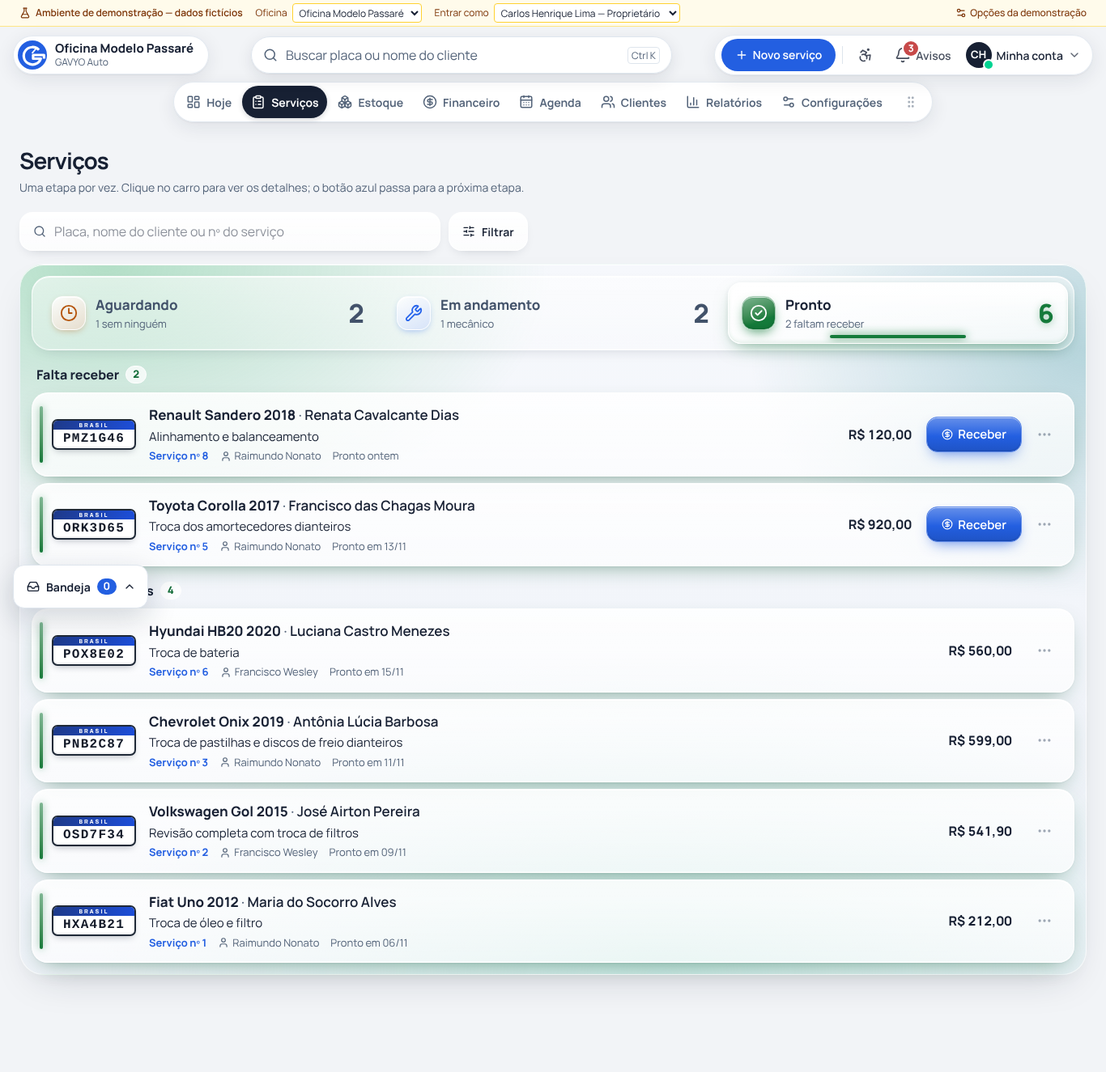
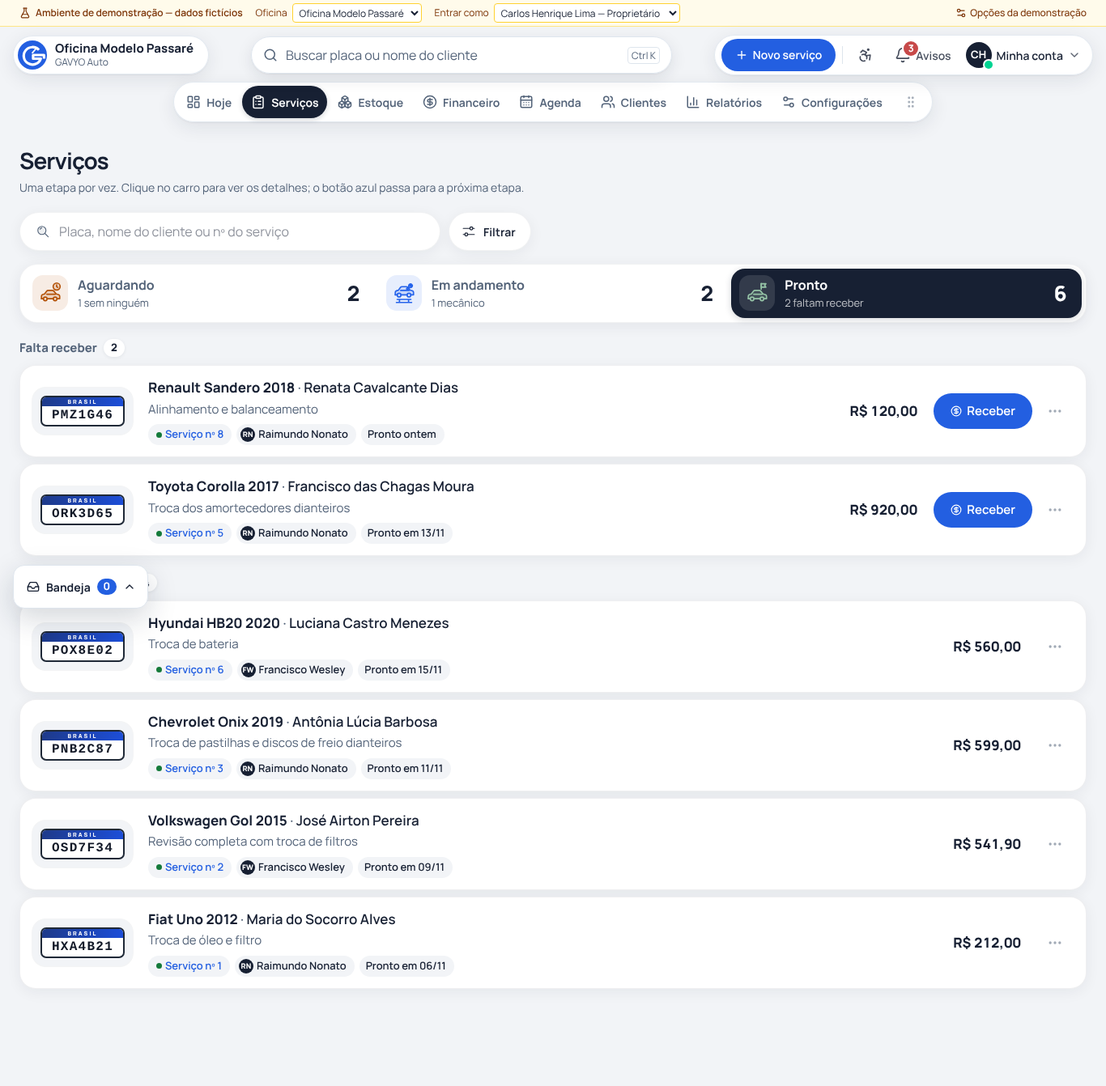
style: Serviços no estilo da navegação e ícones próprios da oficina
Troca o vidro (achado exagerado) pela linguagem da ilha de navegação: abas
com pílula escura, cartões brancos com placa como foto, etiquetas cinza e
botão em pílula. Ícones desenhados: carro com relógio, no elevador e com
bandeirinha, lupa e régua de ajuste.

Claude-Session: https://claude.ai/code/session_015xcccMtBZyPoUvGxoauYP3

diff --git a/src/app/globals.css b/src/app/globals.css
@@ -1810,45 +1810,60 @@ html[data-motion="reduce"] .stage-tab.just-got, html[data-motion="reduce"] .svc-
 .svc-cancelled { justify-self: start; font-size: .9375rem; font-weight: 650; color: var(--primary); }
 .svc-cancelled:hover { text-decoration: underline; }
 
-/* ===== Serviços em vidro (pedido do usuário: "estilo glass", decisão 59) =====
-   Vidro sem desfoque: translucidez + reflexo no topo + borda de luz + sombra colorida
-   sobre um fundo em degradê que muda de cor com a etapa. Sem backdrop-filter
-   (decisão 52: pesava no Mac); sobre degradê liso o desfoque não mudaria nada.
-   A cor da etapa transiciona suave via @property. */
-@property --tint { syntax: "<color>"; inherits: true; initial-value: #c2410c; }
-.svc-stage { --tint: #c2410c; position: relative; isolation: isolate; display: grid; gap: 18px; padding: 14px; border-radius: 30px; border: 1px solid rgb(255 255 255 / 70%); background:
-    radial-gradient(60% 55% at 8% 0%, color-mix(in srgb, var(--tint) 30%, transparent), transparent 70%),
-    radial-gradient(45% 50% at 100% 12%, color-mix(in srgb, var(--tint) 18%, rgb(165 180 252 / 35%)), transparent 70%),
-    radial-gradient(70% 60% at 60% 100%, color-mix(in srgb, var(--tint) 14%, rgb(224 242 254 / 60%)), transparent 75%),
-    linear-gradient(180deg, #f6f8fc, #eef2f8);
-  box-shadow: inset 0 1px 0 rgb(255 255 255 / 90%), 0 20px 50px -24px rgb(23 32 51 / 25%); transition: --tint 500ms ease; }
-.svc-stage[data-stage="in_progress"] { --tint: #2563eb; }
-.svc-stage[data-stage="done"] { --tint: #16a34a; }
+/* ===== Serviços no estilo da navegação (decisão 59, revisão do usuário: "muito exagerado,
+   quero algo parecido com a nav") =====
+   Mesma linguagem da ilha de navegação: superfície branca, borda fina, sombra leve,
+   item ativo em pílula escura. Cartões inspirados na lista de viagens do Airbnb e nos
+   pedidos da Apple Store: "foto" à esquerda (a placa), título forte, uma linha de apoio,
+   etiquetas cinza e UM botão em pílula. Cor da etapa só como pontinho. */
+.svc-stage { display: grid; gap: 16px; }
+.svc-stage .stage-tabs { gap: 4px; padding: 5px; margin: 0; border: 1px solid rgb(23 32 51 / 6%); border-radius: 22px; background: var(--surface); box-shadow: 0 4px 18px rgb(23 32 51 / 7%); }
+.svc-stage .stage-tab { min-height: 60px; padding: 8px 18px 8px 10px; border: 0; border-radius: 17px; color: var(--muted); box-shadow: none; transition: background-color 200ms, color 200ms; }
+.svc-stage .stage-tab:hover { background: var(--bg); color: var(--text); }
+.svc-stage .stage-tab[aria-selected="true"] { background: var(--secondary); color: var(--secondary-fg); border: 0; box-shadow: 0 2px 8px rgb(23 32 51 / 18%); }
+.svc-stage .stage-tab[aria-selected="true"]::after { display: none; }
+.svc-stage .stage-tab-icon { width: 44px; height: 44px; border-radius: 13px; background: color-mix(in srgb, var(--st) 11%, var(--surface)); color: var(--st); }
+.svc-stage .stage-tab-icon svg { width: 30px; height: 30px; }
+.svc-stage .stage-tab[aria-selected="true"] .stage-tab-icon { background: rgb(255 255 255 / 12%); color: color-mix(in srgb, var(--st) 45%, #fff); }
+.svc-stage .stage-tab-label { font-size: 1rem; font-weight: 700; }
+.svc-stage .stage-tab[aria-selected="true"] .stage-tab-label { color: var(--secondary-fg); }
+.svc-stage .stage-tab[aria-selected="true"] .stage-tab-sub { color: rgb(255 255 255 / 72%); }
+.svc-stage .stage-tab-count { font-size: 1.625rem; font-weight: 800; color: var(--text); }
+.svc-stage .stage-tab[aria-selected="true"] .stage-tab-count { color: var(--secondary-fg); }
+.svc-stage .stage-tab[data-over] { background: color-mix(in srgb, var(--st) 12%, var(--surface)); box-shadow: inset 0 0 0 2px var(--st); }
 
-.svc-stage .stage-tabs { margin: 0; padding: 7px; border-radius: 22px; background: linear-gradient(180deg, rgb(255 255 255 / 55%), rgb(255 255 255 / 28%)); border: 1px solid rgb(255 255 255 / 75%); box-shadow: inset 0 1px 0 rgb(255 255 255 / 95%), inset 0 -1px 0 rgb(255 255 255 / 30%), 0 6px 18px -10px rgb(23 32 51 / 25%); }
-.svc-stage .stage-tab { border-radius: 16px; color: #42526a; }
-.svc-stage .stage-tab:hover { background: rgb(255 255 255 / 40%); }
-.svc-stage .stage-tab[aria-selected="true"] { overflow: hidden; border-color: rgb(255 255 255 / 90%); background: linear-gradient(180deg, rgb(255 255 255 / 92%), rgb(255 255 255 / 70%)); box-shadow: inset 0 1px 0 #fff, inset 0 -2px 6px -2px color-mix(in srgb, var(--st) 18%, transparent), 0 10px 24px -10px color-mix(in srgb, var(--st) 55%, transparent), 0 2px 6px rgb(23 32 51 / 8%); }
-.svc-stage .stage-tab[aria-selected="true"]::before { content: ""; position: absolute; inset: 0 0 55% 0; border-radius: 16px 16px 40% 40% / 16px 16px 14px 14px; background: linear-gradient(180deg, rgb(255 255 255 / 85%), rgb(255 255 255 / 0%)); pointer-events: none; }
-.svc-stage .stage-tab[aria-selected="true"]::after { left: 30%; right: 30%; bottom: 6px; height: 4px; border-radius: 4px; box-shadow: 0 0 12px var(--st); }
-.svc-stage .stage-tab-icon { position: relative; border-radius: 14px; background: linear-gradient(150deg, rgb(255 255 255 / 85%), color-mix(in srgb, var(--st) 16%, rgb(255 255 255 / 60%))); border: 1px solid rgb(255 255 255 / 80%); box-shadow: inset 0 1px 0 #fff, 0 3px 8px -3px color-mix(in srgb, var(--st) 45%, transparent); }
-.svc-stage .stage-tab[aria-selected="true"] .stage-tab-icon { background: linear-gradient(160deg, color-mix(in srgb, var(--st) 55%, #fff), var(--st) 70%); border-color: color-mix(in srgb, var(--st) 40%, #fff); box-shadow: inset 0 1px 0 rgb(255 255 255 / 70%), inset 0 -2px 4px rgb(0 0 0 / 12%), 0 6px 14px -4px color-mix(in srgb, var(--st) 70%, transparent); }
-.svc-stage .stage-tab-count, .svc-stage .stage-tab-text { position: relative; }
-.svc-stage .stage-tab[aria-selected="true"] .stage-tab-count { text-shadow: 0 2px 10px color-mix(in srgb, var(--st) 35%, transparent); }
-
-.svc-stage .order-card.svc-row { border: 1px solid rgb(255 255 255 / 80%); border-radius: 20px; padding-left: 24px; background: linear-gradient(180deg, rgb(255 255 255 / 86%), rgb(255 255 255 / 62%)); box-shadow: inset 0 1px 0 #fff, inset 0 -1px 0 rgb(255 255 255 / 35%), 0 10px 28px -14px color-mix(in srgb, var(--st) 45%, rgb(23 32 51 / 40%)), 0 1px 2px rgb(23 32 51 / 5%); transition: transform 160ms ease, box-shadow 160ms ease; }
-.svc-stage .order-card.svc-row::before { content: ""; position: absolute; left: 9px; top: 16px; bottom: 16px; width: 4px; border-radius: 4px; background: linear-gradient(180deg, color-mix(in srgb, var(--st) 55%, #fff), var(--st)); box-shadow: 0 0 10px color-mix(in srgb, var(--st) 55%, transparent); }
-.svc-stage .order-card.svc-row:hover, .svc-stage .order-card.svc-row:focus-within { transform: translateY(-1px); border-color: #fff; background: linear-gradient(180deg, rgb(255 255 255 / 95%), rgb(255 255 255 / 76%)); box-shadow: inset 0 1px 0 #fff, 0 16px 34px -14px color-mix(in srgb, var(--st) 55%, rgb(23 32 51 / 45%)), 0 2px 4px rgb(23 32 51 / 6%); }
-.svc-stage .order-card.svc-row.is-selected { box-shadow: inset 0 1px 0 #fff, 0 0 0 2px color-mix(in srgb, var(--primary) 55%, transparent), 0 16px 34px -14px color-mix(in srgb, var(--primary) 50%, transparent); }
-.svc-stage .mini-plate { box-shadow: 0 4px 10px -4px rgb(15 23 42 / 35%), inset 0 -2px 0 rgb(15 23 42 / 6%); }
-.svc-stage .svc-actions .ui-button.bg-primary { border-color: color-mix(in srgb, var(--primary) 70%, #fff); border-radius: 14px; background-image: linear-gradient(180deg, color-mix(in srgb, var(--primary) 70%, #fff) 0%, var(--primary) 55%, color-mix(in srgb, var(--primary) 88%, #000) 100%); box-shadow: inset 0 1px 0 rgb(255 255 255 / 55%), inset 0 -1px 2px rgb(0 0 0 / 15%), 0 8px 18px -8px color-mix(in srgb, var(--primary) 80%, transparent); }
-.svc-stage .svc-actions .ui-button.bg-primary:hover { filter: brightness(1.06); }
-.svc-stage .svc-group { padding-left: 6px; }
-.svc-stage .svc-group span { background: rgb(255 255 255 / 75%); border: 1px solid #fff; }
-.svc-stage .stage-empty { border: 1.5px dashed rgb(255 255 255 / 95%); background: rgb(255 255 255 / 35%); }
-
-.svc-search, .svc-filter > summary { border-color: rgb(255 255 255 / 85%); background: linear-gradient(180deg, rgb(255 255 255 / 95%), rgb(255 255 255 / 75%)); box-shadow: inset 0 1px 0 #fff, 0 6px 16px -10px rgb(23 32 51 / 30%); border-radius: 16px; }
-.svc-filter-body { border-color: #fff; background: linear-gradient(180deg, rgb(255 255 255 / 98%), rgb(250 251 254 / 96%)); border-radius: 20px; box-shadow: inset 0 1px 0 #fff, 0 24px 60px -18px rgb(23 32 51 / 35%); }
-@media (max-width: 640px) { .svc-stage { padding: 8px; border-radius: 22px; } .svc-stage .order-card.svc-row { border-radius: 16px; padding-left: 20px; } .svc-stage .order-card.svc-row::before { left: 7px; } }
-@media (prefers-reduced-motion: reduce) { .svc-stage, .svc-stage .order-card.svc-row { transition: none; } }
-html[data-motion="reduce"] .svc-stage, html[data-motion="reduce"] .svc-stage .order-card.svc-row { transition: none; }
+/* cartão */
+.svc-stage .order-card.svc-row { gap: 8px 20px; padding: 14px 16px 14px 14px; border: 1px solid rgb(23 32 51 / 7%); border-radius: 20px; background: var(--surface); box-shadow: 0 4px 18px rgb(23 32 51 / 6%); transition: box-shadow 180ms, transform 180ms; }
+.svc-stage .order-card.svc-row:hover, .svc-stage .order-card.svc-row:focus-within { border-color: rgb(23 32 51 / 10%); transform: translateY(-1px); box-shadow: 0 10px 28px rgb(23 32 51 / 10%); }
+.svc-stage .order-card.svc-row.is-selected { border-color: var(--primary); box-shadow: 0 0 0 3px color-mix(in srgb, var(--primary) 18%, transparent), 0 10px 28px rgb(23 32 51 / 10%); }
+.svc-stage .order-card.svc-row.is-picked { background: color-mix(in srgb, var(--primary) 4%, var(--surface)); }
+/* a "foto": placa sobre um fundo cinza claro, como a miniatura do Airbnb */
+.svc-stage .svc-open { gap: 18px; }
+.svc-stage .svc-open .mini-plate { flex-shrink: 0; box-shadow: 0 0 0 10px var(--bg), 0 0 0 11px rgb(23 32 51 / 5%); margin: 11px; }
+.svc-stage .svc-car { font-size: 1.0625rem; font-weight: 750; }
+.svc-stage .svc-what { color: var(--muted); }
+.svc-stage .svc-meta { gap: 6px; margin-top: 4px; }
+.svc-chip { display: inline-flex; align-items: center; gap: 6px; height: 26px; padding: 0 10px 0 8px; border-radius: 999px; background: var(--bg); color: var(--text); font-size: .8125rem; font-weight: 600; white-space: nowrap; }
+.svc-chip.is-number { padding-left: 10px; color: var(--primary); }
+.svc-chip.is-number::before { content: ""; width: 7px; height: 7px; border-radius: 999px; background: var(--st); }
+.svc-avatar { display: grid; place-items: center; width: 18px; height: 18px; margin-left: -3px; border-radius: 999px; background: var(--secondary); color: var(--secondary-fg); font-size: .5625rem; font-weight: 800; letter-spacing: .02em; }
+.svc-stage .svc-value { font-size: 1.0625rem; font-weight: 800; }
+/* botão em pílula, igual ao "Novo serviço" */
+.svc-stage .svc-actions .ui-button { height: 44px; padding-inline: 20px; border-radius: 999px; }
+.svc-stage .svc-actions .more-menu-trigger { border-radius: 999px; }
+.svc-stage .svc-group { margin-top: 4px; font-size: .9375rem; color: var(--muted); }
+.svc-stage .svc-group span { background: var(--surface); color: var(--text); box-shadow: 0 1px 4px rgb(23 32 51 / 8%); }
+.svc-stage .stage-empty { border: 0; background: var(--surface); box-shadow: 0 4px 18px rgb(23 32 51 / 6%); border-radius: 22px; }
+.svc-stage .stage-empty-art svg { width: 44px; height: 44px; }
+/* busca e filtro como a busca do topo */
+.svc-search, .svc-filter > summary { height: 48px; border: 1px solid rgb(23 32 51 / 6%); border-radius: 999px; background: var(--surface); box-shadow: 0 4px 18px rgb(23 32 51 / 6%); }
+.svc-search { padding: 0 18px; }
+.svc-filter > summary { padding: 0 18px 0 14px; }
+.svc-filter-body { border: 1px solid rgb(23 32 51 / 6%); border-radius: 22px; box-shadow: 0 18px 48px rgb(23 32 51 / 16%); }
+@media (max-width: 640px) {
+  .svc-stage .stage-tab { min-height: 72px; padding: 8px 4px; }
+  .svc-stage .stage-tab-icon { display: none; }
+  .svc-stage .order-card.svc-row { padding: 12px; border-radius: 18px; }
+  .svc-stage .svc-open .mini-plate { margin: 8px; box-shadow: 0 0 0 8px var(--bg); }
+  .svc-chip { height: 24px; }
+}

diff --git a/src/features/orders/orders-page.tsx b/src/features/orders/orders-page.tsx
@@ -7,7 +7,8 @@ import { GuidedTour, IllusDrag, IllusSequence, IllusTap, IllusTyping } from "@/c
 import {
   CollisionDetection, DndContext, DragEndEvent, pointerWithin, rectIntersection, DragOverlay, DragStartEvent, KeyboardSensor, PointerSensor, useDraggable, useDroppable, useSensor, useSensors,
 } from "@dnd-kit/core";
-import { ArrowRight, Check, CheckCircle2, CheckSquare, ClipboardList, Clock3, ExternalLink, GripVertical, Inbox, Search, SearchX, SlidersHorizontal, User, UserCheck, Wrench } from "lucide-react";
+import { ArrowRight, Check, CheckSquare, ClipboardList, ExternalLink, GripVertical, Inbox, SearchX, UserCheck } from "lucide-react";
+import { IconCarLift, IconCarReady, IconCarWaiting, IconSearch, IconTune } from "@/components/ui/shop-icons";
 import { createContext, useContext, useEffect, useMemo, useState } from "react";
 import { useApp } from "@/app-state/app-context";
 import { Dialog } from "@/components/ui/dialog";
@@ -135,9 +136,9 @@ function OrderCard({ order, draggable, overlay }: { order: ServiceOrder; draggab
           <span className="svc-car">{vehicleLabel(vehicle)} <span className="svc-owner">· <strong>{customer}</strong></span></span>
           <span className="svc-what" title={order.description}>{order.description}</span>
           <span className="svc-meta">
-            <span className="svc-number">{number}</span>
-            <span><User className="size-3.5" aria-hidden />{mechanic}</span>
-            <span>{order.status === "done" && order.completedAt ? `Pronto ${sinceDay(order.completedAt)}` : sinceShop(order.openedAt)}</span>
+            <span className="svc-chip is-number">{number}</span>
+            <span className="svc-chip"><span className="svc-avatar" aria-hidden>{order.mechanicId ? mechanic.split(" ").map((w) => w[0]).slice(0, 2).join("") : "?"}</span>{mechanic}</span>
+            <span className="svc-chip">{order.status === "done" && order.completedAt ? `Pronto ${sinceDay(order.completedAt)}` : sinceShop(order.openedAt)}</span>
           </span>
         </span>
       </button>
@@ -160,10 +161,10 @@ function sinceDay(at: string): string {
   return d === today ? "hoje" : d === addDays(today, -1) ? "ontem" : `em ${formatDate(d).slice(0, 5)}`;
 }
 
-const STAGE_META: Record<OrderStatus, { label: string; empty: string; emptyText: string; icon: typeof Clock3 }> = {
-  waiting: { label: "Aguardando", empty: "Nenhum carro esperando", emptyText: "Quando um carro chegar, ele entra aqui até alguém começar.", icon: Clock3 },
-  in_progress: { label: "Em andamento", empty: "Nenhum carro sendo feito", emptyText: "Clique em Começar num carro de Aguardando.", icon: Wrench },
-  done: { label: "Pronto", empty: "Nenhum carro pronto", emptyText: "Quando terminar um serviço, clique em Marcar como pronto.", icon: CheckCircle2 },
+const STAGE_META: Record<OrderStatus, { label: string; empty: string; emptyText: string; icon: typeof IconCarWaiting }> = {
+  waiting: { label: "Aguardando", empty: "Nenhum carro esperando", emptyText: "Quando um carro chegar, ele entra aqui até alguém começar.", icon: IconCarWaiting },
+  in_progress: { label: "Em andamento", empty: "Nenhum carro sendo feito", emptyText: "Clique em Começar num carro de Aguardando.", icon: IconCarLift },
+  done: { label: "Pronto", empty: "Nenhum carro pronto", emptyText: "Quando terminar um serviço, clique em Marcar como pronto.", icon: IconCarReady },
 };
 
 /** Aba grande de etapa (controle segmentado, à la Apple). Também recebe cartões arrastados. */
@@ -360,13 +361,13 @@ export function OrdersPage() {
 
       <div className="svc-toolbar">
         <label className="svc-search" data-tour="search-page">
-          <Search className="size-4" aria-hidden />
+          <IconSearch className="size-5" aria-hidden />
           <span className="sr-only">Buscar serviços</span>
           <input type="search" value={search} onChange={(e) => setSearch(e.target.value)} placeholder="Placa, nome do cliente ou nº do serviço" />
         </label>
         <details className="svc-filter">
           <summary>
-            <SlidersHorizontal className="size-4" aria-hidden />Filtrar
+            <IconTune className="size-5" aria-hidden />Filtrar
             {(mechanic || period !== "all") && <span className="svc-filter-on">{[mechanic === "none" ? "Sem responsável" : mechanics.find((m) => m.id === mechanic)?.name.split(" ")[0], PERIODS.find((p) => p.value === period && p.value !== "all")?.label].filter(Boolean).join(" · ")}</span>}
           </summary>
           <div className="svc-filter-body">

diff --git a/src/components/ui/shop-icons.tsx b/src/components/ui/shop-icons.tsx
@@ -1,0 +1,76 @@
+/**
+ * Ícones próprios da oficina (pedido do usuário: trocar os ícones genéricos).
+ * Traço de 1.8 com cantos arredondados + uma mancha de cor suave (duotone),
+ * no mesmo desenho da placa: o carro visto de lado, sempre o mesmo carro.
+ * Decorativos: quem usa põe aria-hidden e o texto ao lado diz o que é.
+ */
+import type { SVGProps } from "react";
+
+type P = SVGProps<SVGSVGElement>;
+const base = { viewBox: "0 0 32 32", fill: "none", stroke: "currentColor", strokeWidth: 1.8, strokeLinecap: "round", strokeLinejoin: "round" } as const;
+
+/** O carro (lado), reaproveitado nos três ícones. */
+function Car({ y = 0 }: { y?: number }) {
+  return (
+    <g transform={`translate(0 ${y})`}>
+      <path d="M4.5 21.5v-3.2c0-1 .6-1.8 1.5-2.1l2.6-.8 2.6-3.6c.5-.7 1.3-1.1 2.2-1.1h5.4c.8 0 1.6.4 2.1 1l3 3.6 2.9.8c1 .3 1.7 1.2 1.7 2.2v3.2" fill="currentColor" fillOpacity=".16" />
+      <path d="M4.5 21.5h2.3M12.2 21.5h7.6M25.2 21.5h2.3M11.6 15.7h11" />
+      <circle cx="9.5" cy="21.8" r="2.4" />
+      <circle cx="22.5" cy="21.8" r="2.4" />
+    </g>
+  );
+}
+
+/** Aguardando: carro estacionado com um reloginho. */
+export function IconCarWaiting(props: P) {
+  return (
+    <svg {...base} {...props}>
+      <Car y={2} />
+      <circle cx="24.5" cy="7.5" r="4.6" fill="currentColor" fillOpacity=".16" />
+      <path d="M24.5 5.4v2.3l1.5 1" />
+    </svg>
+  );
+}
+
+/** Em andamento: carro em cima do elevador, com a chave de boca. */
+export function IconCarLift(props: P) {
+  return (
+    <svg {...base} {...props}>
+      <Car y={-3} />
+      <path d="M7 24.5h18M10 24.5v4M22 24.5v4M6 28.5h20" />
+      <path d="M25.6 4.2a2.6 2.6 0 0 0-3.3 3.3l-3 3 1.2 1.2 3-3a2.6 2.6 0 0 0 3.3-3.3l-1.5 1.5-1.2-.3-.3-1.2z" fill="currentColor" fillOpacity=".16" />
+    </svg>
+  );
+}
+
+/** Pronto: carro com a bandeirinha de concluído. */
+export function IconCarReady(props: P) {
+  return (
+    <svg {...base} {...props}>
+      <Car y={2} />
+      <path d="M21.5 11V3.5" />
+      <path d="M21.5 3.8h6.2l-1.6 2.3 1.6 2.3h-6.2z" fill="currentColor" fillOpacity=".16" />
+    </svg>
+  );
+}
+
+/** Filtro: dois botões de régua (como o ajuste de um painel). */
+export function IconTune(props: P) {
+  return (
+    <svg {...base} {...props}>
+      <path d="M5 10h13M24 10h3M5 22h3M14 22h13" />
+      <circle cx="21" cy="10" r="3" fill="currentColor" fillOpacity=".16" />
+      <circle cx="11" cy="22" r="3" fill="currentColor" fillOpacity=".16" />
+    </svg>
+  );
+}
+
+/** Busca: lupa com brilho. */
+export function IconSearch(props: P) {
+  return (
+    <svg {...base} {...props}>
+      <circle cx="14" cy="14" r="8" fill="currentColor" fillOpacity=".1" />
+      <path d="M20 20l6.5 6.5M10.5 11.5a4.5 4.5 0 0 1 3-2.5" />
+    </svg>
+  );
+}

diff --git a/docs/DECISOES.md b/docs/DECISOES.md
@@ -60,4 +60,4 @@
 | 56 | **Novo serviço passo a passo** (auditoria leiga F1, F4, F5, F8) | Escolhas do usuário: janela com progresso, tom de conversa, grande e espaçoso. Uma pergunta por vez (GOV.UK "one thing per page"; cadastros Nubank/iFood); placa desenhada reconhece carro e dono e pula passos; marca, serviço e mecânico por toque em vez de lista suspensa; opcionais em "Mais detalhes"; mão de obra por escolha (Ainda não sei / Já sei / Não vai cobrar) no lugar de "em branco = a definir"; prévia do cartão que vai nascer no quadro. Mesmas regras e mesmo `createOrder` de antes. Mais cliques (≈11 contra 2), mas cada um é um toque óbvio e só 4 campos digitados (antes 6). |
 | 57 | **Formulários com escolhas em botões** (auditoria leiga F2, F3, F6) | Listas suspensas com poucas opções viraram botões grandes (`ChoiceGroup`, rádios por baixo): mecânico, categoria de despesa e de peça, tipo de movimento do estoque, "Já recebeu?", função e acesso do funcionário, mão de obra (Já sei / Ainda não sei / Não vai cobrar, no lugar de "em branco = a definir"). Data e hora por atalhos (Hoje, Amanhã, dias; Ontem e anteriores para o que já aconteceu) e horários em botões; calendário só em "Outro dia". Opcionais em "Mais detalhes (opcional): …", dizendo o que tem dentro. Lista suspensa mantida só para listas longas (cliente, novo dono do carro). Peças do serviço: busca + linhas com "Adicionar". Código da peça vazio é gerado sozinho; motivo vazio na entrada/saída recebe um padrão ("Peça chegou"). Nas janelas, a pergunta do campo tem o mesmo peso da pergunta das escolhas. Mesmas regras e serviços de antes. |
 | 58 | **Hoje vira o pátio** (auditoria leiga G1 + rabiscos do usuário: "mecânico vai ver isso e não vai entender nada", "um mecânico precisa disso?", "tem nada aí") | Os carros que estão na oficina ficam no topo, em linhas largas agrupadas pelo caminho do carro (Esperando começar → Sendo feito → Pronto, esperando o cliente), com a placa desenhada como âncora visual e um botão por carro; "Quem falta pagar" virou o grupo Pronto (o valor e o Receber ficam na linha do carro). Removidos os 4 cartões coloridos de números (padrão genérico de painel), a tabela com filtros (repetia o quadro), a atividade recente e o cartão de estoque (virou uma linha). Quem chega hoje vai para a coluna ao lado. Mecânico vê só os carros dele, sem dinheiro. "Sendo feito" usa azul fixo porque a cor da oficina pode ser verde e confundir com Pronto; além da cor há texto do grupo e os tracinhos do caminho. As skills "impeccable" e "ui-ux-pro-max" pedidas não estão instaladas na sessão na nuvem; os princípios delas e o contrato em `.impeccable/` (placa e número como âncoras, próxima ação em cada serviço) guiaram a decisão. |
-| 59 | **Serviços: uma tela por etapa, em vidro** (pedido do usuário com desenho: "o kanban está muito poluído… uma tela pra em andamento, uma pra aguardando e outra pra pronto"; depois "quero algo como o estilo glass") | As 3 colunas viraram 3 abas grandes (controle segmentado à la iOS/macOS: ícone, nome, uma frase — "1 sem ninguém", "2 faltam receber" — e o número grande). Cada aba mostra os carros em linhas largas (placa desenhada, carro · cliente, serviço, nº, responsável, há quanto tempo; valor e um botão). Pronto se divide em "Falta receber" e "Pagos e entregues" (6 primeiros + Mostrar mais). Fila em ordem de chegada; prontos do mais recente. Ao avançar a etapa, a linha voa até a aba seguinte, que pula com o número novo (como mover e-mail para pasta no Apple Mail). Arrastar continua como atalho: solta-se o carro na aba (WCAG 2.5.7: o botão faz o mesmo). Busca + "Filtrar" recolhido (período em botões, responsáveis, cancelados) no lugar da faixa de responsáveis e do select de período (auditoria G7). A aba escolhida fica salva por usuário; serviço recém-aberto abre a sua aba para o "nascimento". Visual de vidro: lâminas translúcidas com reflexo e borda de luz sobre um degradê que muda de cor com a etapa (âmbar, azul, verde, transição suave via `@property`), sem `backdrop-filter` (decisão 52). Referências: Apple Mail/Lembretes, Liquid Glass, Linear. |
+| 59 | **Serviços: uma tela por etapa, em vidro** (pedido do usuário com desenho: "o kanban está muito poluído… uma tela pra em andamento, uma pra aguardando e outra pra pronto"; depois "quero algo como o estilo glass") | As 3 colunas viraram 3 abas grandes (controle segmentado à la iOS/macOS: ícone, nome, uma frase — "1 sem ninguém", "2 faltam receber" — e o número grande). Cada aba mostra os carros em linhas largas (placa desenhada, carro · cliente, serviço, nº, responsável, há quanto tempo; valor e um botão). Pronto se divide em "Falta receber" e "Pagos e entregues" (6 primeiros + Mostrar mais). Fila em ordem de chegada; prontos do mais recente. Ao avançar a etapa, a linha voa até a aba seguinte, que pula com o número novo (como mover e-mail para pasta no Apple Mail). Arrastar continua como atalho: solta-se o carro na aba (WCAG 2.5.7: o botão faz o mesmo). Busca + "Filtrar" recolhido (período em botões, responsáveis, cancelados) no lugar da faixa de responsáveis e do select de período (auditoria G7). A aba escolhida fica salva por usuário; serviço recém-aberto abre a sua aba para o "nascimento". Visual: um vidro translúcido foi testado e o usuário achou exagerado ("quero algo parecido com a nav"); ficou a linguagem da ilha de navegação: superfície branca, borda fina, sombra leve, aba ativa em pílula escura (como o item ativo do menu), cor da etapa só como pontinho e no ícone. Cartões inspirados na lista de viagens do Airbnb e nos pedidos da Apple Store: a placa como "foto" sobre fundo cinza, título forte, linha de apoio, etiquetas cinza (nº, mecânico com iniciais, tempo) e um botão em pílula igual ao "Novo serviço". Ícones próprios da oficina no lugar dos genéricos (`src/components/ui/shop-icons.tsx`): carro com relógio (Aguardando), carro no elevador (Em andamento), carro com bandeirinha (Pronto), lupa e régua de ajuste — traço 1.8 + mancha de cor suave. Referências: Apple Mail/Lembretes, controle segmentado do iOS, Airbnb, Apple Store, Linear. |

diff --git a/docs/INTERFACE.md b/docs/INTERFACE.md
@@ -59,12 +59,12 @@ Decisão 58. A tela responde **"que carros estão aqui e o que cada um precisa a
 
 Decisão 59. No lugar das três colunas, **três abas grandes**: **Aguardando · Em andamento · Pronto**, cada uma com o número de carros e uma frase ("1 sem ninguém", "2 faltam receber"). ← → trocam de aba pelo teclado.
 
-- Cada carro é uma **linha larga de vidro**: placa desenhada, carro · cliente, serviço, nº, responsável e há quanto tempo; à direita o valor, **um botão** (Começar / Marcar como pronto / Receber) e "⋯". Clique abre o painel ao lado; duplo clique, o serviço completo.
+- Cada carro é um **cartão branco** no estilo da navegação: placa desenhada, carro · cliente, serviço, nº, responsável e há quanto tempo; à direita o valor, **um botão** (Começar / Marcar como pronto / Receber) e "⋯". Clique abre o painel ao lado; duplo clique, o serviço completo.
 - **Pronto** separa **Falta receber** e **Pagos e entregues**.
 - Ao clicar no botão, a linha **voa até a aba** da próxima etapa e a aba pula com o número novo.
 - **Busca** e **Filtrar** (aberto quando, quem está fazendo, ver cancelados). Se a busca achar o carro em outra etapa: "Achamos 1 em Pronto →".
 - Atalhos que continuam: arrastar (pela alça que aparece ao passar o mouse) e soltar numa aba ou num responsável; selecionar vários (caixinha, X, Ctrl/⌘+clique); bandeja.
-- Fundo em degradê muda de cor com a etapa (âmbar, azul, verde).
+- Aba ativa em pílula escura, como o item ativo do menu. Ícones próprios da oficina: carro com relógio, carro no elevador, carro com bandeirinha.
 
 ![Serviços — Aguardando](imagens/interface/servicos-aguardando.png)
 ![Serviços — Pronto](imagens/interface/servicos-pronto.png)

diff --git a/docs/ESTADO-ATUAL.md b/docs/ESTADO-ATUAL.md
@@ -27,7 +27,7 @@
 | `294afa4` | Auditoria leiga ([AUDITORIA-LEIGO-20261118.md](AUDITORIA-LEIGO-20261118.md)) item 1 — **Novo serviço passo a passo** |
 | `64badb4` | Item 2 — **formulários com escolhas em botões**, dia/hora por atalhos, opcionais em "Mais detalhes" (decisão 57) |
 | `52c95ef` | Item 3 — **Hoje vira o pátio**: carros por etapa com placa desenhada e um botão; mecânico só vê os carros dele (decisão 58) |
-| (18/11) | **Serviços: uma tela por etapa, em vidro** — abas Aguardando / Em andamento / Pronto no lugar do quadro de colunas (decisão 59) |
+| (18/11) | **Serviços: uma tela por etapa** (estilo da navegação, ícones próprios) — abas Aguardando / Em andamento / Pronto no lugar do quadro de colunas (decisão 59) |
 
 ### Validação vigente
 
